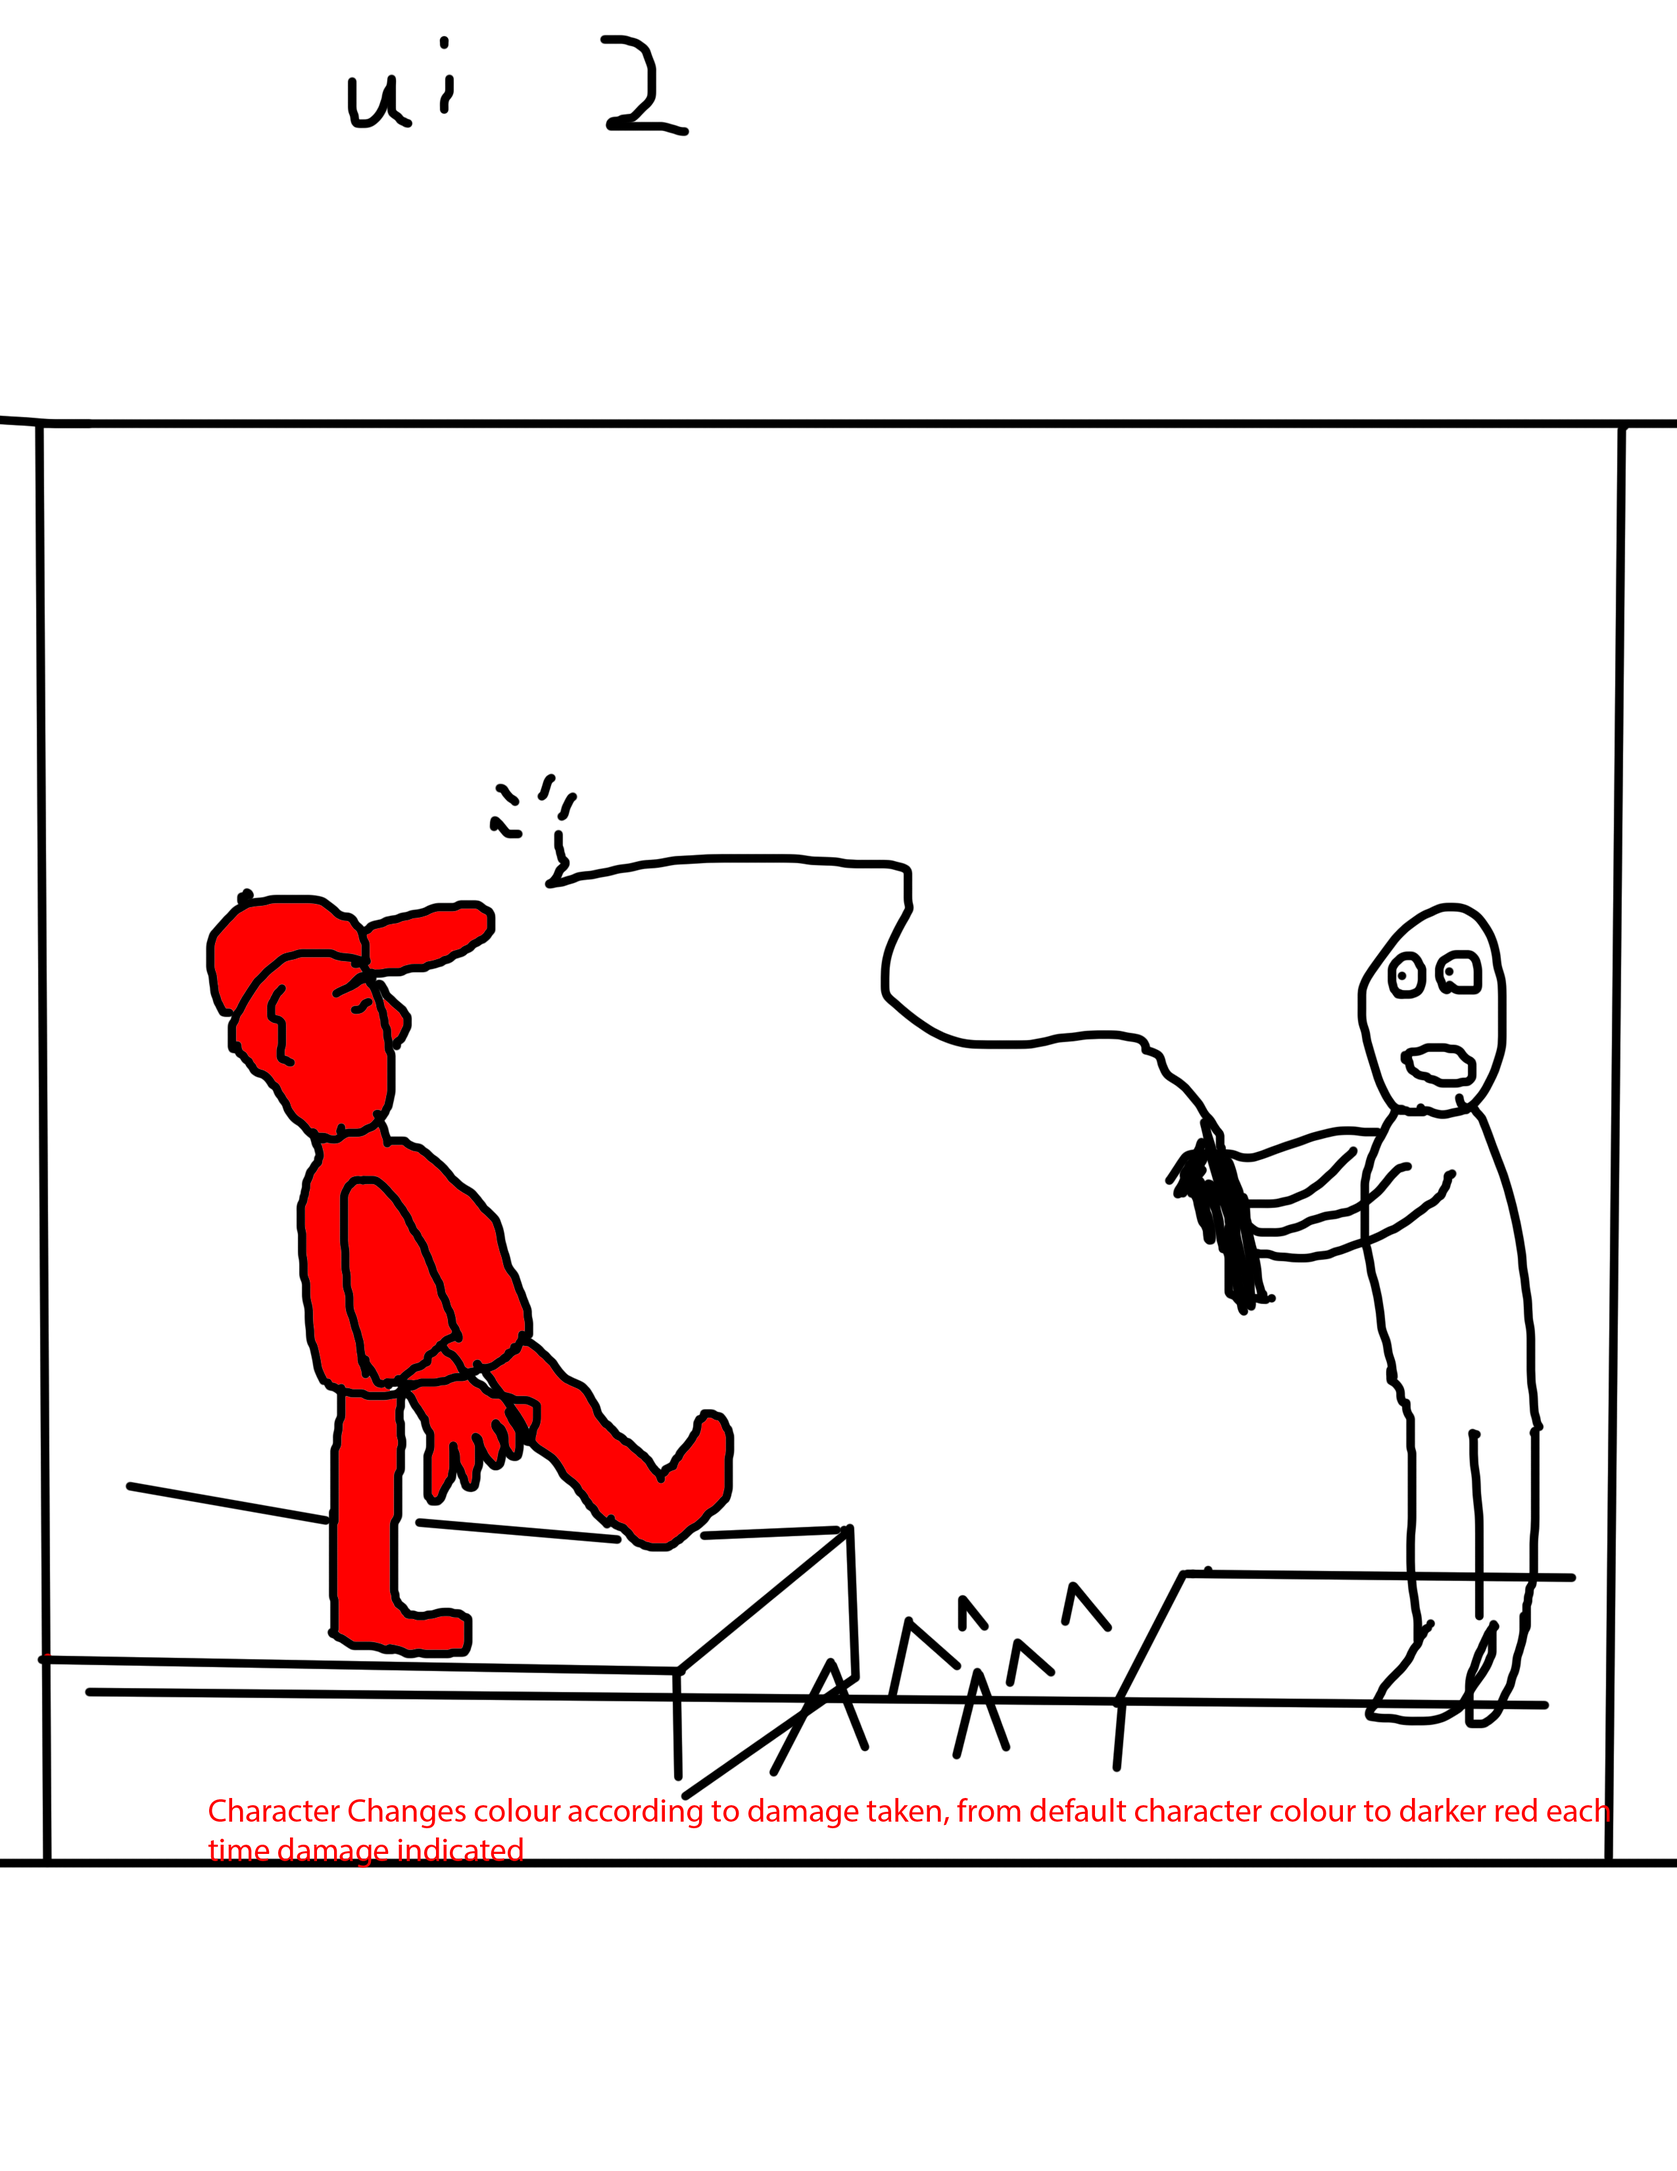
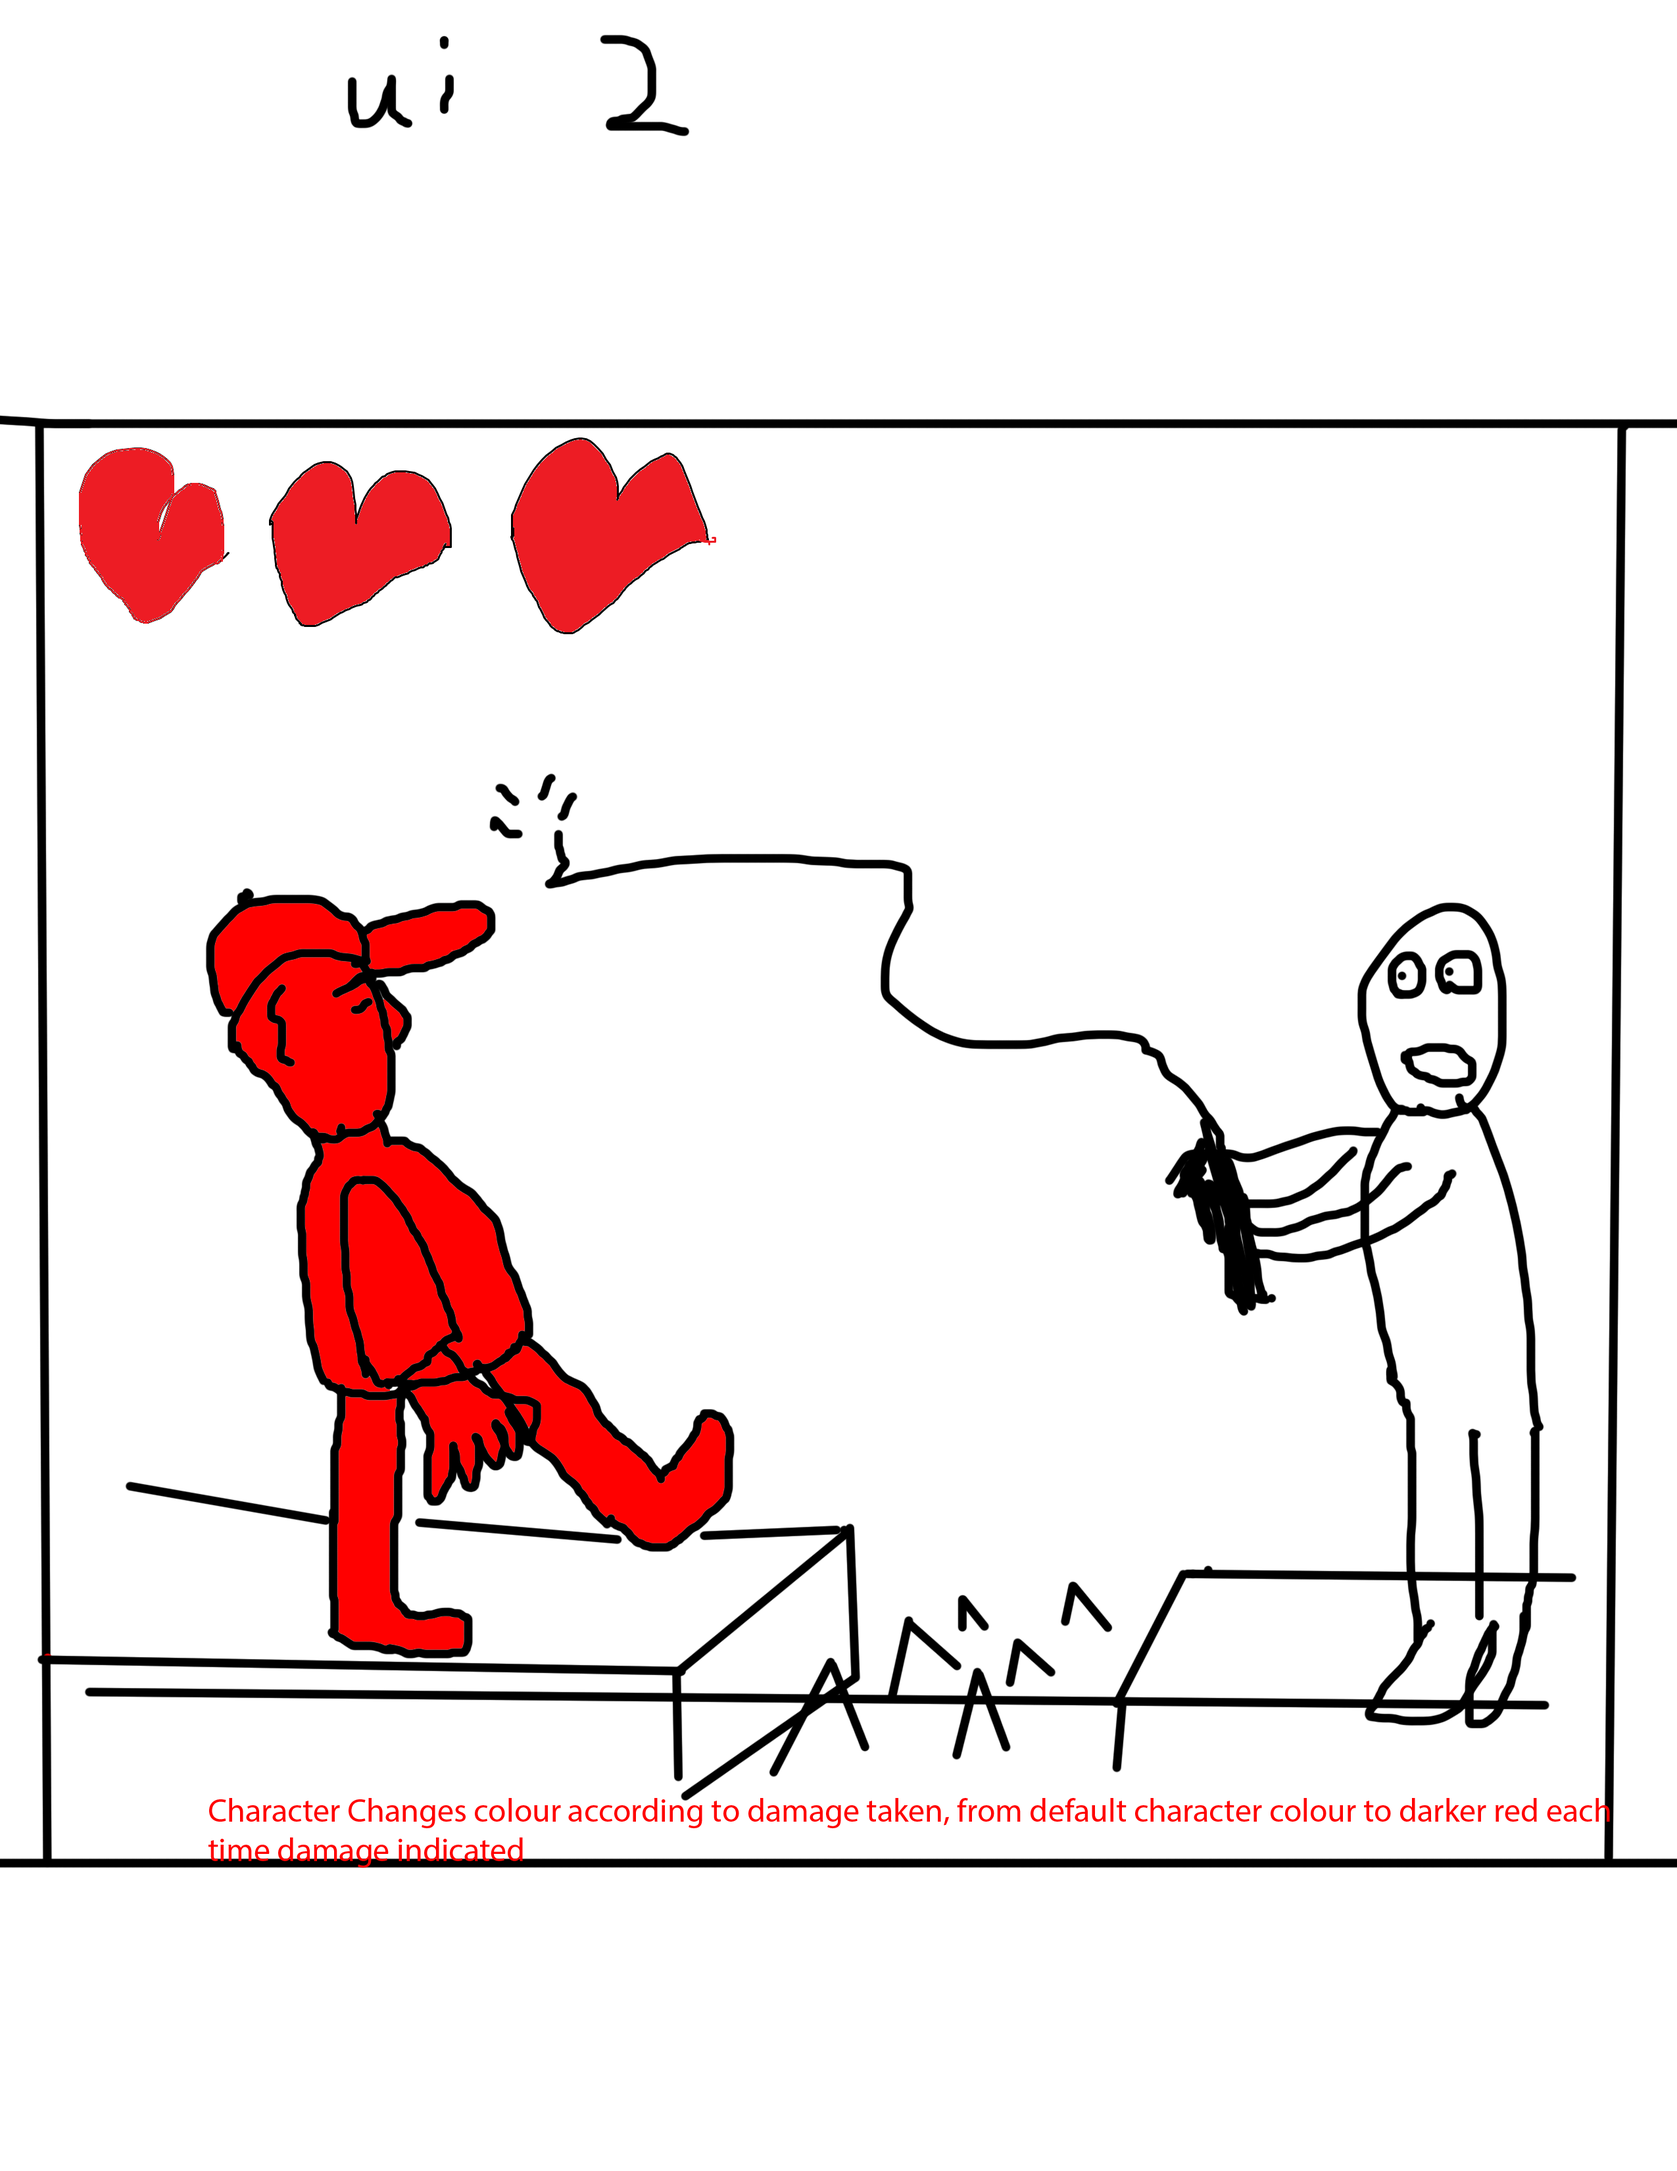
FINSIHED FINISHED

Changed region(s): [[0.031, 0.1873, 0.2788, 0.3121], [0.3098, 0.1873, 0.4337, 0.3121]]

diff --git a/Player.js b/Player.js
@@ -26,6 +26,7 @@ var ANIM_SHOOT_LEFT = 6;
 var ANIM_SHOOT_RIGHT = 7;
 
 
+
 var ANIM_MAX = 7;
 
 var Player = function()
@@ -86,8 +87,23 @@ var Player = function()
 	this.respawn_x = this.x;
 	this.respawn_y = this.y;
 	
+	
+
+	
+	this.head_image = document.createElement("img");
+	this.head_image.src = "face 1.png";
+	
+	this.head_image2 = document.createElement("img");
+	this.head_image2.src = "face 2.png";
+	
+	this.head_image3 = document.createElement("img");
+	this.head_image3.src = "face 3.png";
+	
 	this.lives_image = document.createElement("img");
 	this.lives_image.src = "heart.png";
+	
+	
+	
 	
 	//NEW BULLETS
 	this.max_bullets = 50;
@@ -132,6 +148,15 @@ Player.prototype.update = function(deltaTime)
 	var left, right, jump;
 	left = right = jump = false;
 	
+	if (this.lives == 2)
+	{
+		this.head_image = this.head_image2;
+	}
+	else if (this.lives == 1)
+	{
+		this.head_image = this.head_image3;
+	}
+	
 	
 	
 	if (keyboard.isKeyDown(37))
@@ -164,6 +189,9 @@ Player.prototype.update = function(deltaTime)
 			}
 		}
 	}
+	
+	
+	
 	if (keyboard.isKeyDown(keyboard.KEY_SPACE))
 	{
 		jump = true;
@@ -354,12 +382,34 @@ Player.prototype.update = function(deltaTime)
 }	
 Player.prototype.draw = function(_cam_x, _cam_y)
 {
+
+	context.drawImage(this.head_image,2, 1)
+	
+		if (this.lives == 3)
+		{
+		context.drawImage(this.head_image,2, 1);
+		}
+		else if (this.lives == 2)
+		{
+		context.drawImage(this.head_image2,3,1);
+		}
+		else if (this.lives == 1)
+		{
+		context.drawImage(this.head_image3,3,1);
+		}
+		else if (this.lives <= 0)
+		{
+		context.drawImage(this.head_image,2, 1);
+
+		}
+		
+	
 	this.sprite.draw(context, this.x - _cam_x,
 							  this.y - _cam_y);
 	
 	for (var idx = 0; idx < this.lives; idx++)
 	{
-		context.drawImage(this.lives_image, 40 + idx * (this.lives_image.width), 40);
+		context.drawImage(this.lives_image, 100 + idx * (this.lives_image.width), 40);
 	}
 	
 	for (var idx = 0; idx < this.max_bullets; idx++)

diff --git a/main.js b/main.js
@@ -47,13 +47,14 @@ function getDeltaTime()
 var SCREEN_WIDTH = canvas.width;
 var SCREEN_HEIGHT = canvas.height;
 
-var background_scale = new Howl (
+var background_sound = new Howl (
 {
 	urls: ["background.ogg"],
 	loop: true,
 	buffer: true,
 	volume: 0.5,
 });
+background_sound.play();
 
 // some variables to calculate the Frames Per Second (FPS - this tells use
 // how fast our game is running, and allows us to make the game run at a 
@@ -123,6 +124,7 @@ var example_emitter = new Emitter();
 function runGame(deltaTime)
 {	
 	context.drawImage(background, 0, 0);
+	
 	
 	var wanted_cam_x;
 	var wanted_cam_y;
@@ -270,7 +272,6 @@ function runGameWin(deltaTime)
 			player.isDead = false;
 			player.lives = 4;
 			
-			return;
 		}
 }
 

diff --git a/ChuckUi.js b/ChuckUi.js
@@ -3,7 +3,7 @@
 		this.sprite1 = new Sprite("ChuckUi.png");
 		// width and height, 165, 126,// pixel height and width of single image 0.05, frame rate
 		this.sprite1.buildAnimation(32 , 32 , 14 , 1 , 0.05,
-			[65,66,67,68,69,70,71,72,73,74,75,76,77,78]);
+			[1,2,3,4,5,6,7,8,9,10,11,12,13,14]);
 	}
 	
 	ChuckUi.prototype.update = function(deltaTime)

diff --git a/bullet.js b/bullet.js
@@ -25,9 +25,12 @@ Bullet.prototype.fire = function(origin_x, origin_y, dir_x, dir_y)
 }
 
 Bullet.prototype.update = function(deltaTime)
-{
+{	
+
+	
 	if (!this.isDead)
 	{
+	
 		this.x += this.vel_x * deltaTime * BULLET_SPEED;
 		this.y += this.vel_y * deltaTime * BULLET_SPEED;
 		
